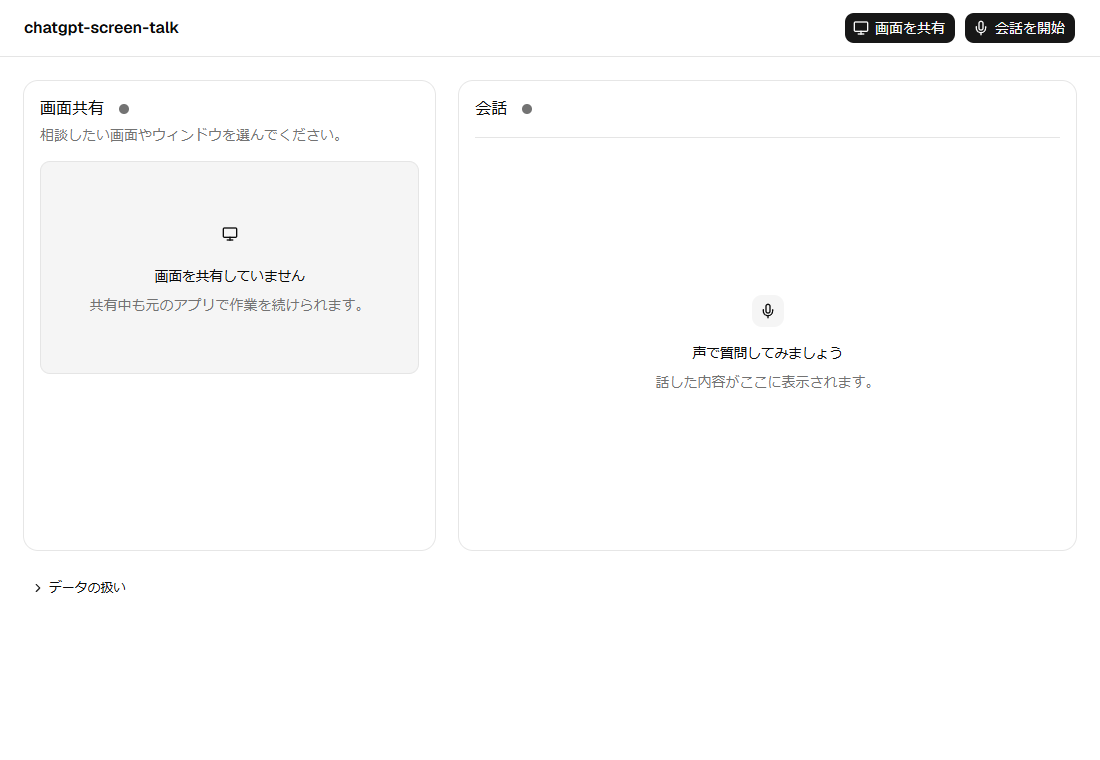
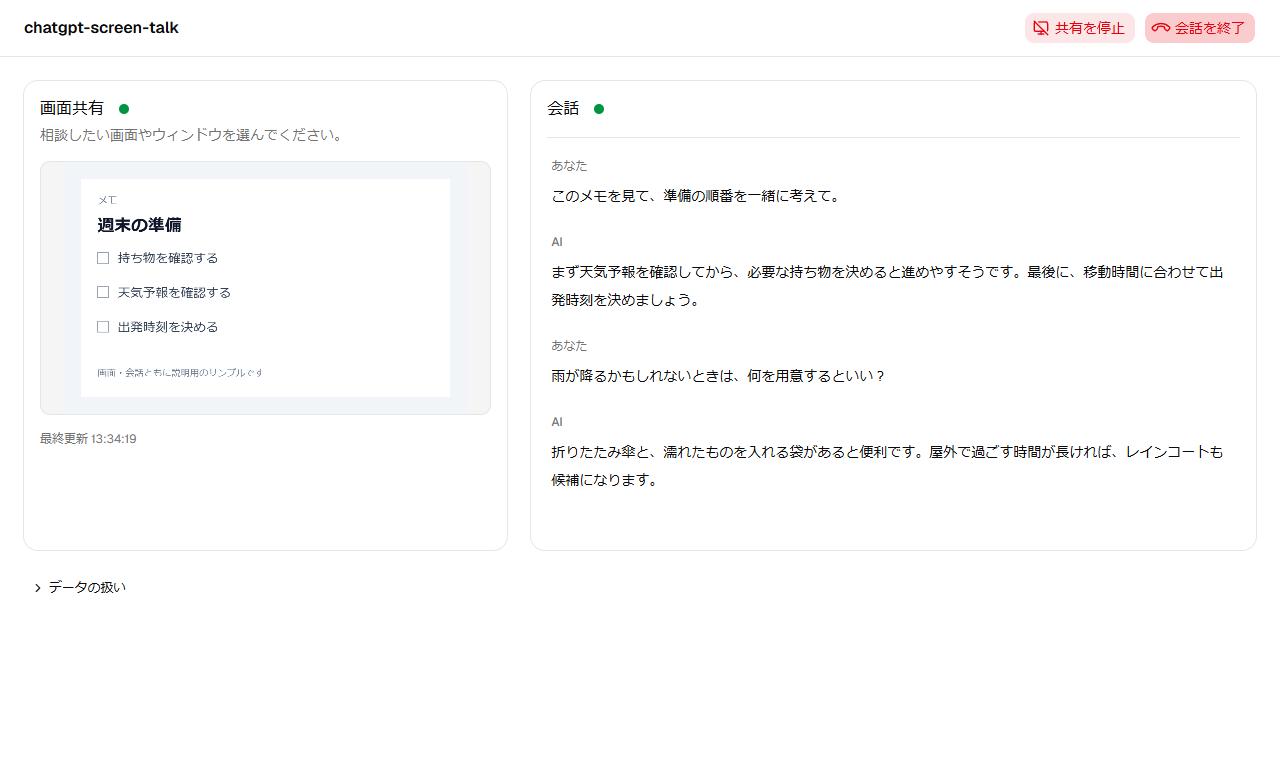
READMEの画像を利用中の表示例に差し替える

diff --git a/README.md b/README.md
@@ -4,7 +4,9 @@
 
 対応OS：Windows
 
-![画面共有と音声会話を並べたアプリ画面](docs/images/screenshot.png)
+![共有したメモと会話の文字起こしを並べた利用画面の表示例](docs/images/screenshot.png)
+
+画像は、説明用の画面と会話サンプルをアプリに表示した例です。
 
 ## 主な機能
 
